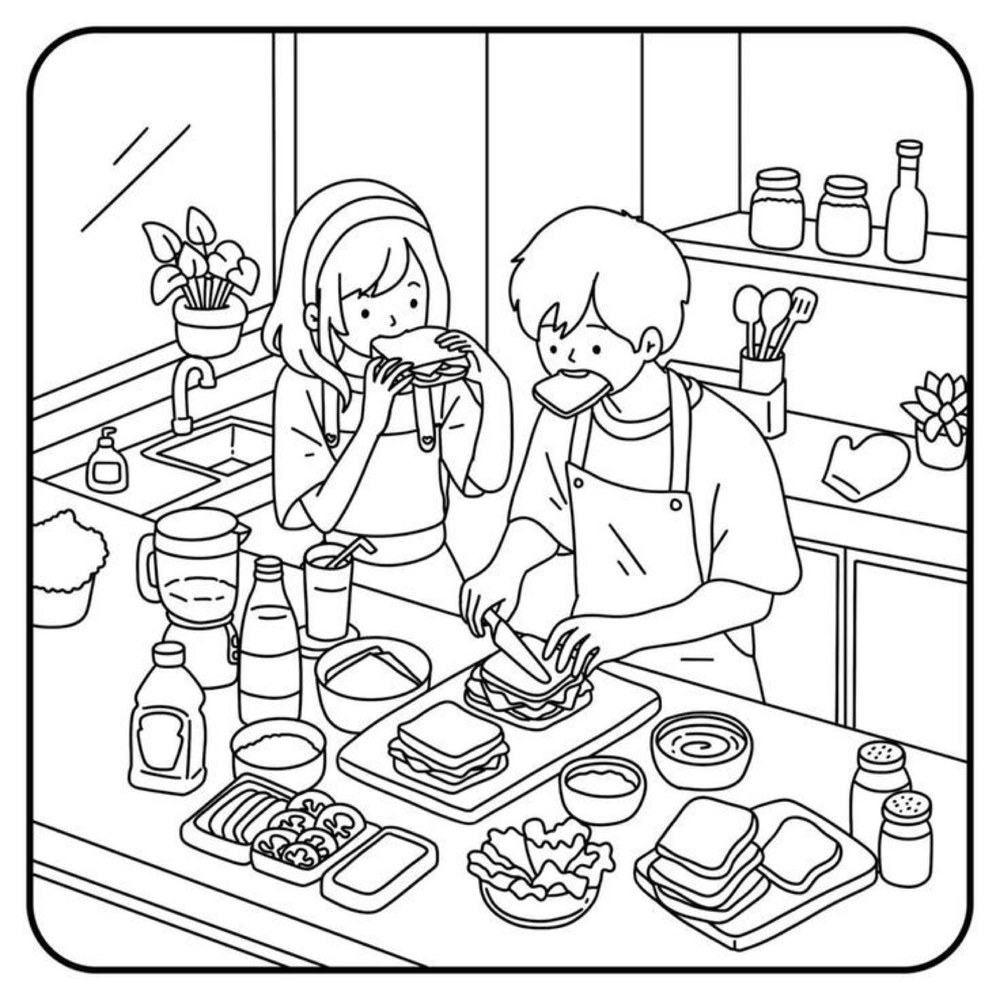
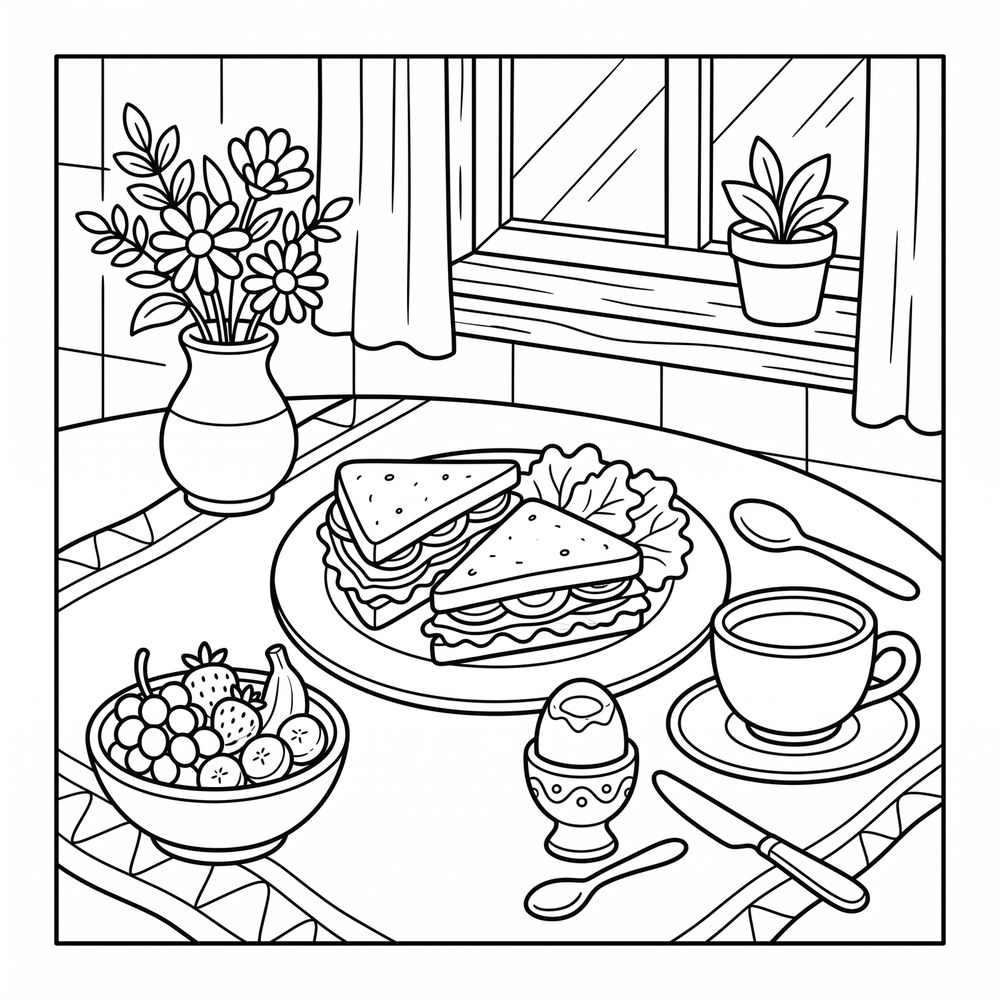
LPのカタログを、作り直した線画6点のうち4点に差し替える
サンドイッチな朝は拾い画だったので全面差し替え。ねこのひるね・よぞらのまちを
追加して2点→4点にした。画像はすべてGeminiで新規に作ったもの(線画と色見本を
同じチャットで作るので、線と色がぴったり対応する)。

⚠ 画像を差し替えたら .next/cache/images を消すこと。消さないと古い方が出続ける
   (2026-09-04に2回踏んだ)。

diff --git a/src/app/myatelier/page.tsx b/src/app/myatelier/page.tsx
@@ -40,6 +40,8 @@ const steps = [
 const catalog = [
   { line: "/myatelier/cafe-line.jpg", color: "/myatelier/cafe-color.jpg", title: "くまのカフェ" },
   { line: "/myatelier/sandwich-line.jpg", color: "/myatelier/sandwich-color.jpg", title: "サンドイッチな朝" },
+  { line: "/myatelier/neko-line.jpg", color: "/myatelier/neko-color.jpg", title: "ねこのひるね" },
+  { line: "/myatelier/yozora-line.jpg", color: "/myatelier/yozora-color.jpg", title: "よぞらのまち" },
 ];
 
 const tools = [
@@ -214,10 +216,10 @@ export default function MyAtelier() {
             <figure key={c.title}>
               <div className="grid grid-cols-2 gap-3">
                 <div className="relative aspect-square rounded-xl overflow-hidden ring-1 ring-white/10 bg-white">
-                  <Image src={c.line} alt={`${c.title}の線画`} fill sizes="25vw" className="object-cover" />
+                  <Image src={c.line} alt={`${c.title}の線画`} fill sizes="(max-width: 640px) 45vw, 25vw" className="object-cover" />
                 </div>
                 <div className="relative aspect-square rounded-xl overflow-hidden ring-1 ring-white/10">
-                  <Image src={c.color} alt={`${c.title}を塗ったもの`} fill sizes="25vw" className="object-cover" />
+                  <Image src={c.color} alt={`${c.title}を塗ったもの`} fill sizes="(max-width: 640px) 45vw, 25vw" className="object-cover" />
                 </div>
               </div>
               <figcaption className="mt-4 text-[15px] font-bold">{c.title}</figcaption>
